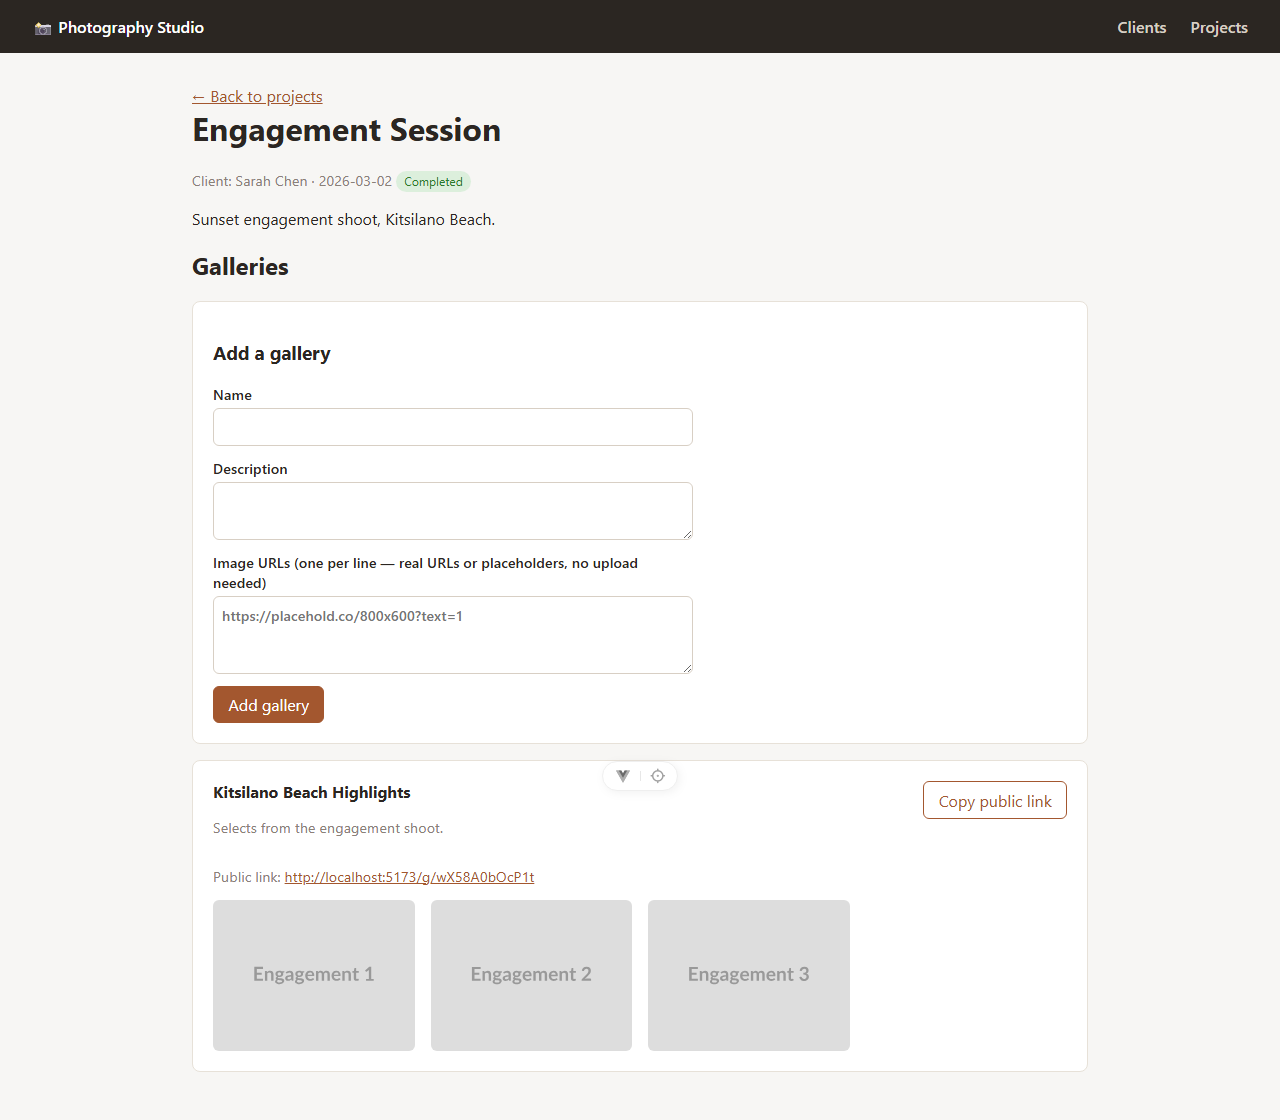
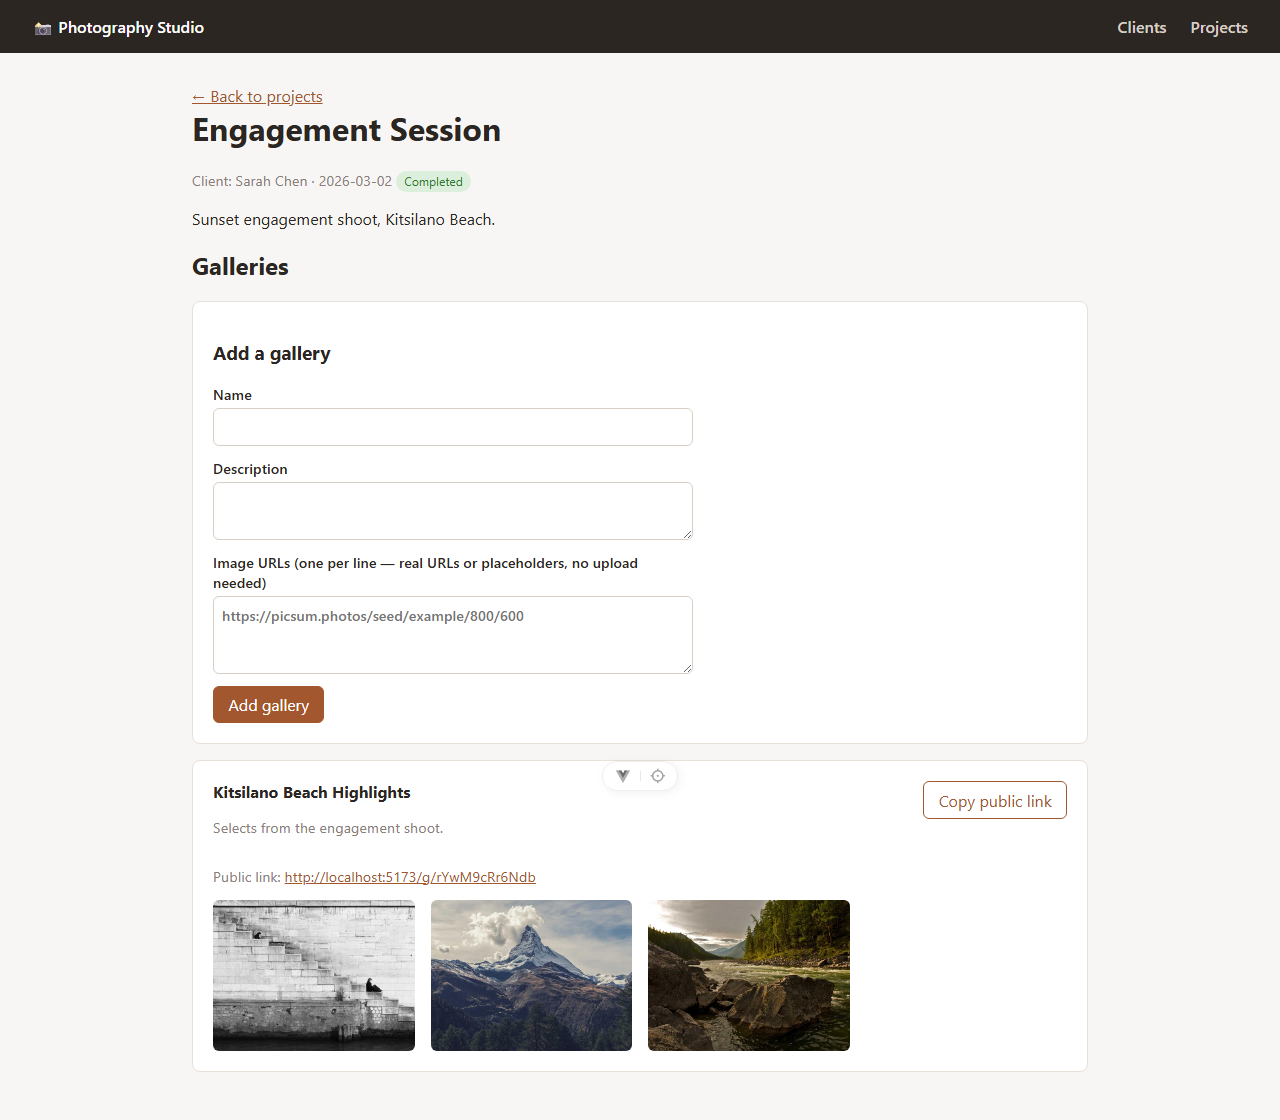
fix: use real photos (picsum.photos) instead of placehold.co blocks
placehold.co renders a flat gray box with the query text drawn on it
("Engagement 1", etc.) - accurate to what the URL asks for, but it
made the screenshots look like broken/fake placeholders rather than a
photo gallery. Switched the seeder, GalleryFactory, and the form's
example placeholder to picsum.photos (real freely-usable stock photos,
seeded for reproducible URLs) and retook the two affected screenshots.

Changed region(s): [[0.1562, 0.7812, 0.6875, 0.9375], [0.2188, 0.5312, 0.4062, 0.5625]]

diff --git a/frontend/src/views/ProjectDetailView.vue b/frontend/src/views/ProjectDetailView.vue
@@ -103,7 +103,7 @@ onMounted(loadAll)
           <textarea
             v-model="form.imageUrlsText"
             rows="3"
-            placeholder="https://placehold.co/800x600?text=1"
+            placeholder="https://picsum.photos/seed/example/800/600"
           ></textarea>
         </label>
         <div class="actions">

diff --git a/backend/database/seeders/DatabaseSeeder.php b/backend/database/seeders/DatabaseSeeder.php
@@ -58,10 +58,14 @@ class DatabaseSeeder extends Seeder
             'project_id' => $engagement->id,
             'name' => 'Kitsilano Beach Highlights',
             'description' => 'Selects from the engagement shoot.',
+            // Picsum (picsum.photos) serves real, freely-usable stock photos —
+            // used here instead of a plain color+text placeholder purely so the
+            // demo data looks like an actual gallery. A seed keeps each URL
+            // pointing at the same photo every time (not truly random).
             'image_urls' => [
-                'https://placehold.co/800x600?text=Engagement+1',
-                'https://placehold.co/800x600?text=Engagement+2',
-                'https://placehold.co/800x600?text=Engagement+3',
+                'https://picsum.photos/seed/engagement-session-1/800/600',
+                'https://picsum.photos/seed/engagement-session-2/800/600',
+                'https://picsum.photos/seed/engagement-session-3/800/600',
             ],
         ]);
 
@@ -70,7 +74,7 @@ class DatabaseSeeder extends Seeder
             'name' => 'Ceremony Preview',
             'description' => 'First look — full gallery coming soon.',
             'image_urls' => [
-                'https://placehold.co/800x600?text=Ceremony+1',
+                'https://picsum.photos/seed/wedding-ceremony-1/800/600',
             ],
         ]);
     }

diff --git a/backend/database/factories/GalleryFactory.php b/backend/database/factories/GalleryFactory.php
@@ -14,8 +14,8 @@ class GalleryFactory extends Factory
             'name' => fake()->words(2, true).' Gallery',
             'description' => fake()->sentence(),
             'image_urls' => [
-                'https://placehold.co/800x600?text=1',
-                'https://placehold.co/800x600?text=2',
+                'https://picsum.photos/seed/'.fake()->uuid().'/800/600',
+                'https://picsum.photos/seed/'.fake()->uuid().'/800/600',
             ],
             // slug is auto-generated by Gallery::booted(), no need to set it here
         ];
